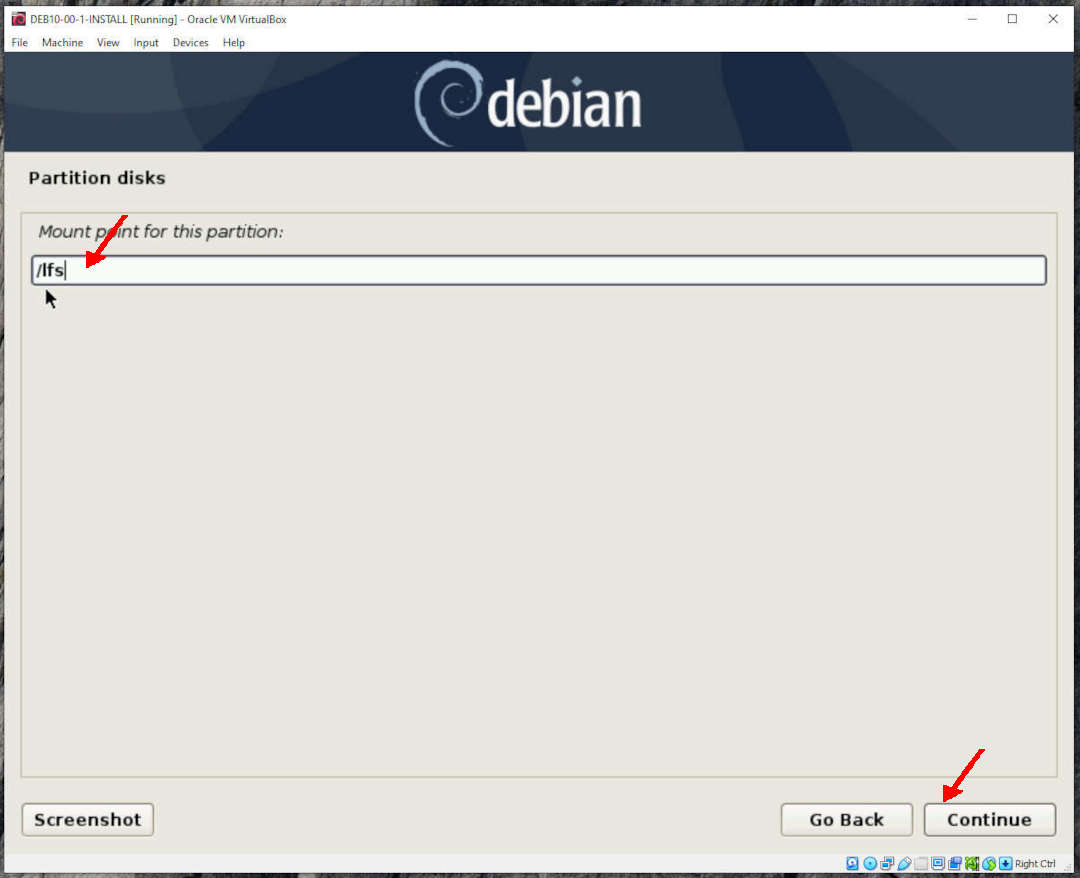
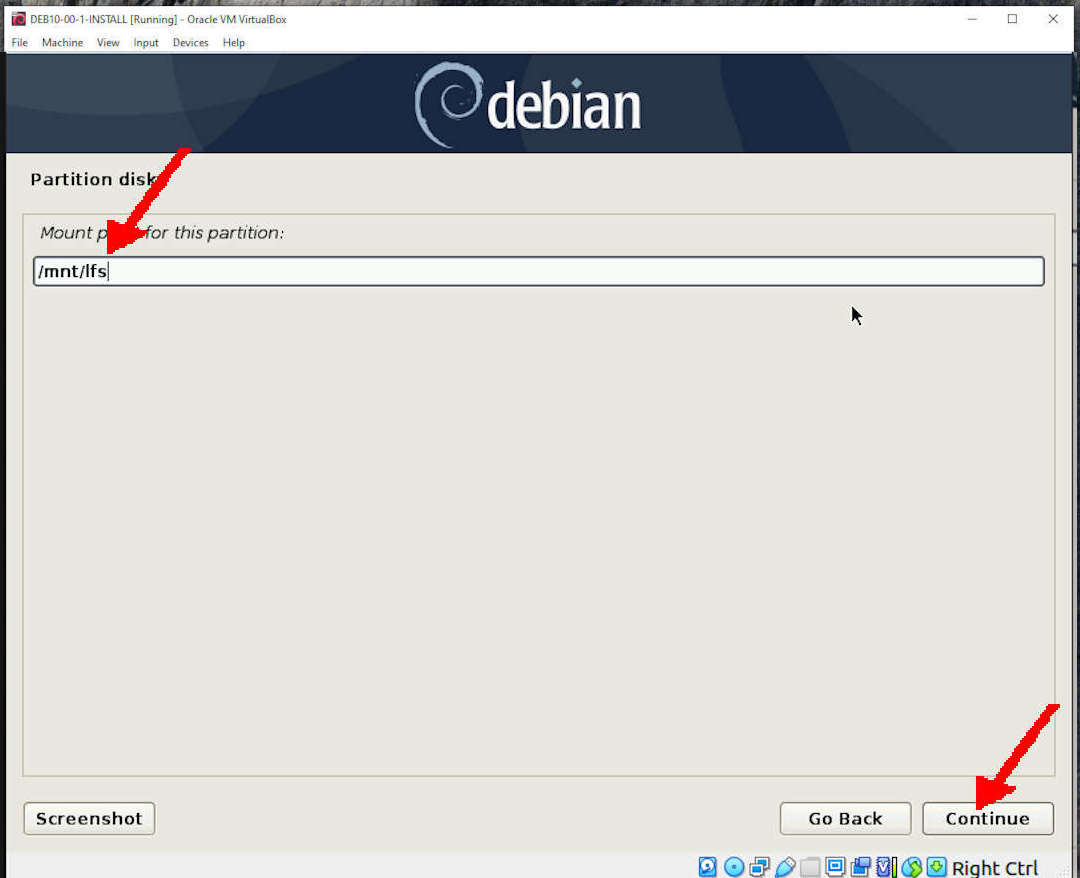
modified:   InstallDebianNetinst.md modified:   MoreDebianPackages.md modified:   SSHGuest.md modified:   index.md modified:   pictures/osp21-99.jpg modified:   pictures/osp21-A0.jpg

Changed region(s): [[0.0, 0.0615, 1.0, 1.0]]

diff --git a/index.md b/index.md
@@ -8,25 +8,41 @@
 [TOP](#)
 [BOTTOM](#endofpage)
 
-# Setting Up a VirtualBox Debian Guest
+# VirtualBox Guest: Preparation
 
 * [FDM: Free Download Manager (Optional)](InstallFDM.md)
-* [Downloading Debian ISO Image](DebianISOImage.md)
 * [Downloading and Installing VirtualBox](InstallVirtualBox.md)
-* [Creating a Debian Guest on VirtualBox](DebianGuestOnVirtualBox.md)
-* [Debian Guest OVA Image](osp-006.md)
-* [Exporting Debian Guest in OVA format](DebianGuestExportOva.md)
-* [Importing Debian Guest with a different Name](DebianGuestImportOva.md)
-* [Deleting Debian Guest(s)](DebianGuestDeleteOva.md)
-* [Installing Debian Netinst Guest on VirtualBox](InstallDebianNetinst.md)
-* [Export Import Guests](ExportImportGuests.md)
-* [SSH and PUTTY](SSHGuest.md)
-* [Update Debian](UpdateDebian.md)
-* [More Debian Packages](MoreDebianPackages.md)
-* [Welcome to GNU/Linux](Welcome2GNULinux.md)
-* [More GNU/Linux](MoreGNULinux.md)
 
-# Example: Cicak Bin Kadal 
+<br>
+# Option 1: Importing a VirtualBox Debian Guest (OVA File)
+
+* For importing a Debian 10 OVA Image:
+  * [LFS-00-README.txt](https://bit.ly/3t1bEw3)
+  * [LFS-00.ova](https://bit.ly/3u2qO5G) (350 MB)
+
+<br>
+# Option 2: Installing a VirtualBox Debian Guest (ISO File)
+
+## Creating an empty VirtualBox Guest
+
+* [A VirtualBox Guest with 2 x 64GB disks](DebianGuestOnVirtualBox.md)
+  * [Exporting a VirtualBox Guest (OVA)](DebianGuestExportOva.md)
+  * [Importing a VirtualBox Guest with a different Name](DebianGuestImportOva.md)
+  * [Export Import VirtualBox Guest(s)](ExportImportGuests.md)
+  * [Deleting Debian VirtualBox Guest(s)](DebianGuestDeleteOva.md)
+
+## Installing Debian
+
+* [Downloading Debian ISO Image](DebianISOImage.md)
+* [Installing Debian Netinst Guest on VirtualBox](InstallDebianNetinst.md)
+* [SSH and PUTTY](SSHGuest.md)
+* [Updating Debian Packages](UpdateDebian.md)
+* [Adding Debian Packages](MoreDebianPackages.md)
+* [Introduction to GNU/Linux](Welcome2GNULinux.md)
+* [More VirtualBox Guest Settings](MoreGNULinux.md)
+
+# Cicak Bin Kadal 
+
 * [Cicak Bin Kadal part 01](CBKadal.md)
 * [Cicak Bin Kadal part 02](CBKadal2.md)
 * [Cicak Bin Kadal Assignment Week 03](W03.md)

diff --git a/MoreDebianPackages.md b/MoreDebianPackages.md
@@ -18,6 +18,7 @@
 
 ```
 ssh -p 6022 cbkadal@localhost
+
 ```
 
 <img src="pictures/H-OSP-08.jpg"  width="960">
@@ -27,21 +28,54 @@ ssh -p 6022 cbkadal@localhost
 su -
 # Update/Upgrade
 apt-get update; apt-get dist-upgrade -y;
+
 ```
 <br>
-## The Package List
+## The Package List 1
 
 ```
 export DEBS="
 apt-file
-apt-transport-https
 aptitude
 autoconf
-automake 
-bc
+automake
 bison
-bridge-utils
 build-essential
+gawk
+git
+git-flow
+gnupg
+gnupg-agent
+liblocale-msgfmt-perl
+locales-all
+manpages-dev
+net-tools
+parted
+sysstat
+sysvbanner
+texinfo
+vim
+x11-apps
+"
+
+```
+<br>
+## Installing Package List 1
+
+```
+apt-get install $DEBS -y
+
+```
+
+
+<br>
+## The Package List 2
+
+```
+export DEBS="
+apt-transport-https
+bc
+bridge-utils
 ca-certificates
 cgroupfs-mount
 coreutils
@@ -52,11 +86,6 @@ docker.io
 fakeroot
 flex
 fuse 
-gawk
-git
-git-flow
-gnupg
-gnupg-agent
 libacl1-dev
 libcap-dev
 libelf-dev
@@ -65,16 +94,12 @@ libncurses-dev
 libseccomp-dev
 libselinux1-dev
 libssl-dev
-locales-all
 lynx
 make
 manpages
-manpages-dev
 module-assistant
-net-tools
 nvi
 p7zip-full
-parted
 pigz
 pkg-config
 runc
@@ -82,24 +107,22 @@ ssh
 software-properties-common
 rsync
 sshfs
-sysstat
-sysvbanner
-texinfo
-vim
 wget
-x11-apps
 "
 
 ```
+
+
+
 <br>
-## Install the package list above
+## Installing Package List 2
 
 ```
 apt-get install $DEBS -y
 
 ```
 
-<img src="pictures/H-OSP-12.jpg"  width="960">
+
 
 <br>
 #### ENDOFPAGE

diff --git a/InstallDebianNetinst.md b/InstallDebianNetinst.md
@@ -16,17 +16,22 @@
 ## Default Settings
 
 * You should adjust these following according to your own belief and faith.
-  * Hostname: osp
+  * Hostname: cbkadal
   * Domain: none
   * Root/Pass: root/osp
   * UserName/Account/Pass: Cicak Bin Kadal/cbkadal/cbkadal
   * Disk #1 (64 GB): 256MB swap and "/" (root partition).
-  * Disk #2 (64 GB): 256MB swap and "/lfs/" (partition).
+  * Disk #2 (64 GB): 256MB swap and "/mnt/lfs/" (partition).
 
 <br>
-## Add an ISO Image to Guest DEB00-00-1-INSTALL
+## Import an EMPTY VirtualBox Guest
 
-### Select DEB00-00-1-INSTALL and Click Settings
+* E.g DEB10-00-0-64G+64G-EMPTY.ova
+* Rename it to DEB00-00-1-INSTALL
+
+<img src="pictures/osp21-39.jpg"  width="960">
+
+### Select and Click Settings
 
 <img src="pictures/osp21-40.jpg"  width="960">
 
@@ -46,11 +51,14 @@
 ### Open an ISO Image
 
 * Eg. debian-10.7.0-amd64-netinst.iso
+* Check if this is the latest version!
 
 <img src="pictures/osp21-43.jpg"  width="960">
 
 <br>
 ### Eg. Choose: debian-10.7.0-amd64-netinst.iso
+
+* Check if this is the latest version!
 
 <img src="pictures/osp21-44.jpg"  width="960">
 

diff --git a/SSHGuest.md b/SSHGuest.md
@@ -79,9 +79,11 @@ Make sure to start your Debian Guest before trying to connect (putty/ssh) to it.
 
 <img src="pictures/WK-OSP-07.jpg"  width="960">
 
+<br>
 * who is there (w)
 ```
 w
+
 ```
 <br>
 
@@ -94,9 +96,10 @@ w
 * who is there (w)
 ```
 w
-```
-<br>
 
+```
+
+<br>
 <img src="pictures/WK-OSP-09.jpg"  width="960">
 
 <br>
@@ -135,6 +138,7 @@ w
 * who is there (w)
 ```
 w
+
 ```
 <br>
 
@@ -143,6 +147,7 @@ w
 <br>
 ```
 exit
+
 ```
 <br>
 
@@ -154,6 +159,7 @@ exit
 * shutdown from console/tty1
 ```
 shutdown -h now
+
 ```
 
 <img src="pictures/WK-OSP-18.jpg"  width="960">
@@ -173,6 +179,7 @@ shutdown -h now
 ssh -p 6022 osp@localhost
 # REMOVE THE OLD KEY
 ssh-keygen -f ~/.ssh/known_hosts -R "[localhost]:6022"
+
 ```
 
 <img src="pictures/H-OSP-07.jpg"  width="960">
@@ -180,6 +187,7 @@ ssh-keygen -f ~/.ssh/known_hosts -R "[localhost]:6022"
 ```
 # ONE MORE TIME
 ssh -p 6022 cbkadal@localhost
+
 ```
 
 <img src="pictures/H-OSP-08.jpg"  width="960">
